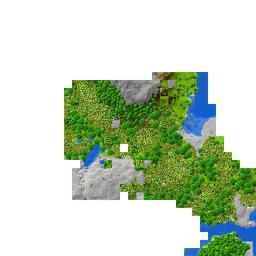
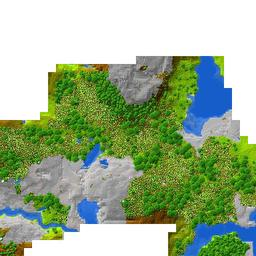
update

diff --git a/unmined.map.regions.js b/unmined.map.regions.js
@@ -1,6 +1,6 @@
 var UnminedRegions = [
+{ x: 0, z: 0, m: new Uint32Array([1574407,3,3,1,1,1,0,0,0,0,0,0,0,0,0,0,0,0,0,0,0,0,0,0,0,0,0,0,0,0,0,0,0,0,0,0,0,0,0,0,0,0,0,0,0,0,0,0,0,0,0,0,0,0,0,0,0,0,0,0,0,0,0,0,0,0,0,0,0,0,0,0,0,0,0,0,0,0,0,0,0,0,0,0,0,0,0,0,0,0,0,0,0,0,0,0,0,0,0,0,0,0,0,0,0,0,0,0,0,0,0,0,0,0,0,0,0,0,0,0,0,0,0,0,0,0,0,0,0,0,0,0,0,0,0,0,0,0,0,0,0,0,0,0,0,0,0,0,0,0,0,0,0,0,0,0,0,0,0,0,0,0,0,0,0,0,0,0,0,0,0,0,0,0,0,0,0,0,0,0,0,0,0,0,0,0,0,0,0,0,0,0,0,0,0,0,0,0,0,0,0,0,0,0,0,0,0,0,0,0,0,0,0,0,0,0,0,0,0,0,0,0,0,0,0,0,0,0,0,0,0,0,0,0,0,0,0,0,0,0,0,0,0,0,0,0,0,0,0,0,0,0,0,0,0,0]) },
 { x: -1, z: 0, m: new Uint32Array([3758096384,3221225472,2147483648,3221225472,4026531840,4026531840,4026531840,0,0,0,0,0,0,0,0,0,0,0,0,0,0,0,0,0,0,0,0,0,0,0,0,0,0,0,0,0,0,0,0,0,0,0,0,0,0,0,0,0,0,0,0,0,0,0,0,0,0,0,0,0,0,0,0,0,0,0,0,0,0,0,0,0,0,0,0,0,0,0,0,0,0,0,0,0,0,0,0,0,0,0,0,0,0,0,0,0,0,0,0,0,0,0,0,0,0,0,0,0,0,0,0,0,0,0,0,0,0,0,0,0,0,0,0,0,0,0,0,0,0,0,0,0,0,0,0,0,0,0,0,0,0,0,0,0,0,0,0,0,0,0,0,0,0,0,0,0,0,0,0,0,0,0,0,0,0,0,0,0,0,0,0,0,0,0,0,0,0,0,0,0,0,0,0,0,0,0,0,0,0,0,0,0,0,0,0,0,0,0,0,0,0,0,0,0,0,0,0,0,0,0,0,0,0,0,0,0,0,0,0,0,0,0,0,0,0,0,0,0,0,0,0,0,0,0,0,0,0,0,0,0,0,0,0,0,0,0,0,0,0,0,0,0,0,0,0,0]) },
 { x: 0, z: -1, m: new Uint32Array([0,0,0,0,0,0,0,0,0,0,0,0,0,0,0,0,0,0,0,0,0,0,0,0,0,0,0,0,0,0,7,1574407,0,0,0,0,0,0,0,0,0,0,0,0,0,0,0,0,0,0,0,0,0,0,0,0,0,0,0,0,0,0,0,0,0,0,0,0,0,0,0,0,0,0,0,0,0,0,0,0,0,0,0,0,0,0,0,0,0,0,0,0,0,0,0,0,0,0,0,0,0,0,0,0,0,0,0,0,0,0,0,0,0,0,0,0,0,0,0,0,0,0,0,0,0,0,0,0,0,0,0,0,0,0,0,0,0,0,0,0,0,0,0,0,0,0,0,0,0,0,0,0,0,0,0,0,0,0,0,0,0,0,0,0,0,0,0,0,0,0,0,0,0,0,0,0,0,0,0,0,0,0,0,0,0,0,0,0,0,0,0,0,0,0,0,0,0,0,0,0,0,0,0,0,0,0,0,0,0,0,0,0,0,0,0,0,0,0,0,0,0,0,0,0,0,0,0,0,0,0,0,0,0,0,0,0,0,0,0,0,0,0,0,0,0,0,0,0,0,0,0,0,0,0,0,0]) },
-{ x: 0, z: 0, m: new Uint32Array([1574407,3,3,1,1,1,0,0,0,0,0,0,0,0,0,0,0,0,0,0,0,0,0,0,0,0,0,0,0,0,0,0,0,0,0,0,0,0,0,0,0,0,0,0,0,0,0,0,0,0,0,0,0,0,0,0,0,0,0,0,0,0,0,0,0,0,0,0,0,0,0,0,0,0,0,0,0,0,0,0,0,0,0,0,0,0,0,0,0,0,0,0,0,0,0,0,0,0,0,0,0,0,0,0,0,0,0,0,0,0,0,0,0,0,0,0,0,0,0,0,0,0,0,0,0,0,0,0,0,0,0,0,0,0,0,0,0,0,0,0,0,0,0,0,0,0,0,0,0,0,0,0,0,0,0,0,0,0,0,0,0,0,0,0,0,0,0,0,0,0,0,0,0,0,0,0,0,0,0,0,0,0,0,0,0,0,0,0,0,0,0,0,0,0,0,0,0,0,0,0,0,0,0,0,0,0,0,0,0,0,0,0,0,0,0,0,0,0,0,0,0,0,0,0,0,0,0,0,0,0,0,0,0,0,0,0,0,0,0,0,0,0,0,0,0,0,0,0,0,0,0,0,0,0,0,0]) },
-{ x: -1, z: -1, m: new Uint32Array([0,0,0,0,0,0,0,0,0,0,0,0,0,0,0,0,0,0,0,0,0,0,0,0,0,0,0,3758096384,3758096384,3758096384,3221225472,3758096384,0,0,0,0,0,0,0,0,0,0,0,0,0,0,0,0,0,0,0,0,0,0,0,0,0,0,0,0,0,0,0,0,0,0,0,0,0,0,0,0,0,0,0,0,0,0,0,0,0,0,0,0,0,0,0,0,0,0,0,0,0,0,0,0,0,0,0,0,0,0,0,0,0,0,0,0,0,0,0,0,0,0,0,0,0,0,0,0,0,0,0,0,0,0,0,0,0,0,0,0,0,0,0,0,0,0,0,0,0,0,0,0,0,0,0,0,0,0,0,0,0,0,0,0,0,0,0,0,0,0,0,0,0,0,0,0,0,0,0,0,0,0,0,0,0,0,0,0,0,0,0,0,0,0,0,0,0,0,0,0,0,0,0,0,0,0,0,0,0,0,0,0,0,0,0,0,0,0,0,0,0,0,0,0,0,0,0,0,0,0,0,0,0,0,0,0,0,0,0,0,0,0,0,0,0,0,0,0,0,0,0,0,0,0,0,0,0,0,0,0,0,0,0,0]) },
+{ x: -1, z: -1, m: new Uint32Array([0,0,0,0,0,0,0,0,0,0,0,0,0,0,0,0,0,0,0,0,0,0,0,0,0,0,0,3758096384,4160749568,4160749568,4160749568,3758096384,0,0,0,0,0,0,0,0,0,0,0,0,0,0,0,0,0,0,0,0,0,0,0,0,0,0,0,0,0,0,0,0,0,0,0,0,0,0,0,0,0,0,0,0,0,0,0,0,0,0,0,0,0,0,0,0,0,0,0,0,0,0,0,0,0,0,0,0,0,0,0,0,0,0,0,0,0,0,0,0,0,0,0,0,0,0,0,0,0,0,0,0,0,0,0,0,0,0,0,0,0,0,0,0,0,0,0,0,0,0,0,0,0,0,0,0,0,0,0,0,0,0,0,0,0,0,0,0,0,0,0,0,0,0,0,0,0,0,0,0,0,0,0,0,0,0,0,0,0,0,0,0,0,0,0,0,0,0,0,0,0,0,0,0,0,0,0,0,0,0,0,0,0,0,0,0,0,0,0,0,0,0,0,0,0,0,0,0,0,0,0,0,0,0,0,0,0,0,0,0,0,0,0,0,0,0,0,0,0,0,0,0,0,0,0,0,0,0,0,0,0,0,0,0]) },
 ];

diff --git a/unmined.map.properties.js b/unmined.map.properties.js
@@ -4,7 +4,7 @@ var UnminedMapProperties = {
     maxZoom: 0,
     defaultZoom: 0,
     imageFormat: "jpeg",
-    minRegionX: -4,
+    minRegionX: -5,
     minRegionZ: -5,
     maxRegionX: 20,
     maxRegionZ: 6,
